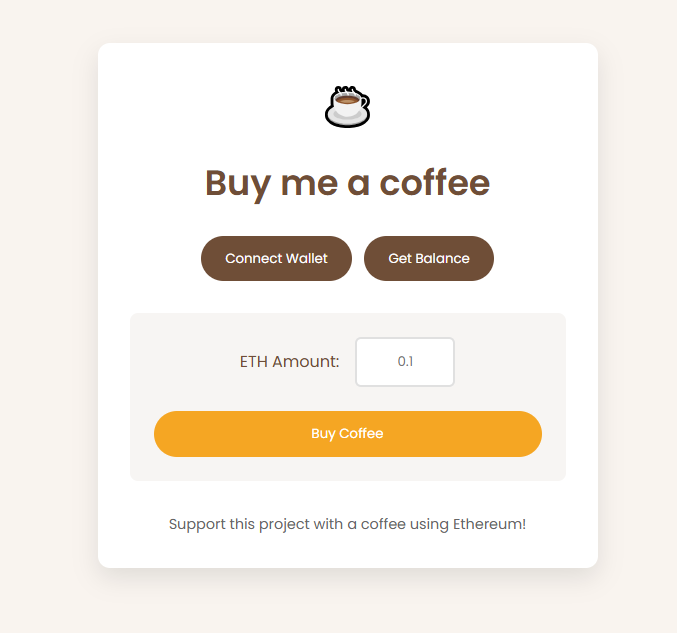
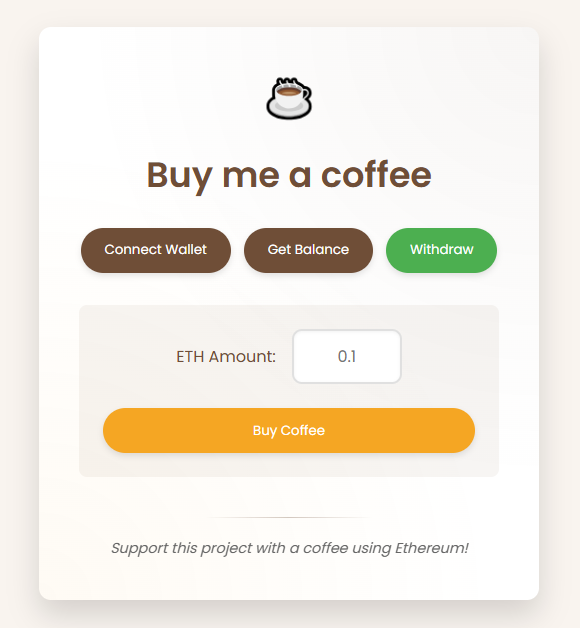
Readme creation.

diff --git a/index-ts.ts b/index-ts.ts
@@ -115,7 +115,7 @@ async function withdraw(): Promise<void> {
         await walletClient.requestAddresses();
       const currentChain: Chain = await getCurrentChain(walletClient);
 
-      console.log("Processing withdrawal...");
+      console.log("Processing withdraw...");
       publicClient = createPublicClient({
         transport: custom(window.ethereum),
       });
@@ -129,11 +129,11 @@ async function withdraw(): Promise<void> {
       });
 
       const hash: Hash = await walletClient.writeContract(request);
-      console.log(`Withdrawal transaction hash: ${hash}`);
-      alert("Withdrawal successful!");
+      console.log(`Withdraw transaction hash: ${hash}`);
+      alert("Withdraw successful!");
     } catch (error: any) {
       console.log(error);
-      alert(`Withdrawal failed: ${error.message}`);
+      alert(`Withdraw failed: ${error.message}`);
     }
   } else {
     alert("Please install MetaMask!");

diff --git a/index-js.js b/index-js.js
@@ -95,7 +95,7 @@ async function withdraw() {
       const [connectedAccount] = await walletClient.requestAddresses();
       const currentChain = await getCurrentChain(walletClient);
 
-      console.log("Processing withdrawal...");
+      console.log("Processing withdraw...");
       publicClient = createPublicClient({
         transport: custom(window.ethereum),
       });
@@ -109,11 +109,11 @@ async function withdraw() {
       });
 
       const hash = await walletClient.writeContract(request);
-      console.log(`Withdrawal transaction hash: ${hash}`);
-      alert("Withdrawal successful!");
+      console.log(`Withdraw transaction hash: ${hash}`);
+      alert("Withdraw successful!");
     } catch (error) {
       console.log(error);
-      alert("Withdrawal failed: " + error.message);
+      alert("Withdraw failed: " + error.message);
     }
   }
 }

diff --git a/README.md b/README.md
@@ -1,0 +1,69 @@
+# ☕ Buy Me A Coffee - Web3 dApp
+
+![JavaScript](https://img.shields.io/badge/JavaScript-F7DF1E?style=for-the-badge&logo=javascript&logoColor=black)
+![HTML5](https://img.shields.io/badge/HTML5-E34F26?style=for-the-badge&logo=html5&logoColor=white)
+![CSS3](https://img.shields.io/badge/CSS3-1572B6?style=for-the-badge&logo=css3&logoColor=white)
+![Ethereum](https://img.shields.io/badge/Ethereum-3C3C3D?style=for-the-badge&logo=Ethereum&logoColor=white)
+
+A modern, stylish web3 application that allows users to send ETH tips (like buying a coffee) through blockchain transactions. This project showcases frontend development with Web3 integration.
+
+## 🚀 Features
+
+- **Connect Wallet**: Seamlessly connect your Ethereum wallet
+- **Check Balance**: View contract balance in real-time
+- **Send ETH**: Make coffee-sized donations through the blockchain
+- **Modern UI**: Clean, responsive design with coffee-themed styling
+
+## 🖼 Preview
+
+![Buy Me A Coffee App Screenshot](./buymeacoffee.png)
+
+## 🛠 Tech Stack
+
+- **Frontend**: HTML5, CSS3, JavaScript
+- **Web3**: Ethereum blockchain integration
+- **Styling**: Custom CSS with responsive design
+
+## 📋 How It Works
+
+1. Connect your MetaMask or other Web3 wallet
+2. Check the current balance of the smart contract
+3. Enter the desired ETH amount to contribute
+4. Click "Buy Coffee" to send the transaction
+5. Your contribution is recorded on the blockchain!
+
+## 🔧 Installation and Setup
+
+```bash
+# Clone the repository
+git clone https://github.com/jucileycostaweb3/html-ts-coffee.git
+
+# Navigate to the project directory
+cd html-ts-coffee
+
+# Anvil
+pnpm anvil
+
+# Run app
+pnpm dev
+```
+
+## 📝 Smart Contract Integration
+
+This frontend connects to a Solidity smart contract deployed on the Ethereum blockchain. The contract handles:
+
+- Receiving and storing ETH donations
+- Tracking contributors
+- Managing withdrawals
+
+## 📄 License
+
+This project is [MIT](LICENSE) licensed.
+
+## 👨💻 Author
+
+- **Your Name** - [GitHub Profile](https://github.com/jucileycostaweb3)
+
+---
+
+⭐ If you found this project useful, please consider giving it a star on GitHub! ⭐
